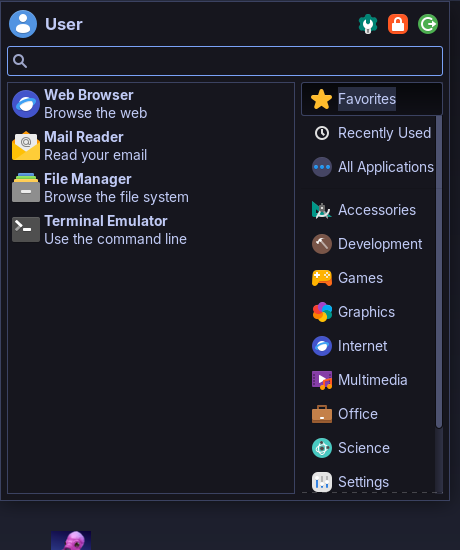
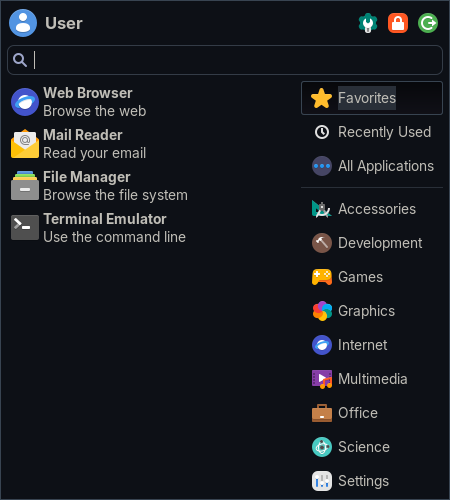
Create xfce4-setting with Ayu Comfort colors and expanded monitor preferences

Changed region(s): [[0.0, 0.0, 1.0, 1.0]]

diff --git a/config/gtk.css b/config/gtk.css
@@ -1,48 +1,52 @@
-/* Local Tokyo Night panel styling */
-.xfce4-panel { background-color: #16161e; color: #c0caf5; border-bottom: 1px solid #292e42; }
+/* Ayu-inspired panel styling */
+.xfce4-panel { background-color: #0d1016; color: #bfbdb6; border-bottom: 1px solid #292f38; }
 .xfce4-panel button { border: 0; border-radius: 7px; margin: 3px 2px; padding: 2px 6px; background-image: none; box-shadow: none; }
-.xfce4-panel button:hover { background-color: #292e42; }
-.xfce4-panel button:checked { background-color: #3b4261; color: #7dcfff; }
-#genmon-20 { padding: 0 10px; margin: 4px 5px; border-radius: 8px; background-color: #24283b; }
-#clock-button { color: #bb9af7; padding: 0 10px; }
-tooltip { background-color: #1a1b26; color: #c0caf5; border: 1px solid #414868; border-radius: 8px; }
+.xfce4-panel button:hover { background-color: #292f38; }
+.xfce4-panel button:checked { background-color: #384451; color: #d9ad72; }
+#genmon-20 { padding: 0 10px; margin: 4px 5px; border-radius: 8px; background-color: #1f242c; }
+#clock-button { color: #c6a77b; padding: 0 10px; }
+tooltip { background-color: #151920; color: #bfbdb6; border: 1px solid #46515e; border-radius: 8px; }
 
 /* Keep inactive windows legible rather than fading all telemetry. */
-.background:backdrop { color: #c0caf5; }
-.background:backdrop label { color: #a9b1d6; }
-.dim-label, .dim-label:backdrop { color: #a9b1d6; opacity: 1; }
-notebook > header tab:checked label { color: #7dcfff; }
+.background:backdrop { color: #bfbdb6; }
+.background:backdrop label { color: #a6a9ab; }
+.dim-label, .dim-label:backdrop { color: #a6a9ab; opacity: 1; }
+notebook > header tab:checked label { color: #d9ad72; }
 
 /* Screenshot review: readable selected categories and usable controls. */
 window:not(.xfce4-panel) button:not(.flat) {
- background-image: none; background-color: #24283b; color: #c0caf5;
- border: 1px solid #3b4261; border-radius: 6px; padding: 4px 10px; min-height: 24px;
+ background-image: none; background-color: #1f242c; color: #bfbdb6;
+ border: 1px solid #384451; border-radius: 6px; padding: 4px 10px; min-height: 24px;
 }
-window:not(.xfce4-panel) button:not(.flat):hover { background-color: #343b58; border-color: #7aa2f7; }
-window:not(.xfce4-panel) button:not(.flat):checked { background-color: #3b4261; color: #c0caf5; }
-window:not(.xfce4-panel) button:not(.flat):disabled { color: #737aa2; }
-#whiskermenu-window button:checked, #whiskermenu-window button:checked label { color: #c0caf5; background-color: #292e42; }
+window:not(.xfce4-panel) button:not(.flat):hover { background-color: #343c47; border-color: #73a9c2; }
+window:not(.xfce4-panel) button:not(.flat):checked { background-color: #384451; color: #bfbdb6; }
+window:not(.xfce4-panel) button:not(.flat):disabled { color: #7c858f; }
+#whiskermenu-window button:checked, #whiskermenu-window button:checked label { color: #bfbdb6; background-color: #292f38; }
 notebook > header tab { padding: 6px 12px; }
-notebook > header tab:checked { border-bottom: 2px solid #7dcfff; }
-infobar.info, infobar.info:backdrop { background-color: #24283b; color: #c0caf5; }
-infobar.info label, infobar.info:backdrop label { color: #c0caf5; }
+notebook > header tab:checked { border-bottom: 2px solid #d9ad72; }
+infobar.info, infobar.info:backdrop { background-color: #1f242c; color: #bfbdb6; }
+infobar.info label, infobar.info:backdrop label { color: #bfbdb6; }
 XfdesktopIconView { -XfdesktopIconView-cell-text-width-proportion: 2.8; -XfdesktopIconView-cell-spacing: 4; -XfdesktopIconView-cell-padding: 6; }
 
-#xfwm-tabwin { background-color: #1a1b26; color: #c0caf5; border: 1px solid #7aa2f7; border-radius: 10px; padding: 10px; }
-#xfwm-tabwin label, #xfwm-tabwin button label { color: #c0caf5; }
-#xfwm-tabwin button:checked, #xfwm-tabwin button:hover { background-color: #343b58; color: #c0caf5; }
+#xfwm-tabwin { background-color: #151920; color: #bfbdb6; border: 1px solid #73a9c2; border-radius: 10px; padding: 10px; }
+#xfwm-tabwin label, #xfwm-tabwin button label { color: #bfbdb6; }
+#xfwm-tabwin button:checked, #xfwm-tabwin button:hover { background-color: #343c47; color: #bfbdb6; }
 
 /* Unified surfaces: boundaries belong to containers, not every child. */
 window:not(.xfce4-panel) notebook { border: none; background-color: transparent; }
 window:not(.xfce4-panel) notebook > header { background: transparent; border: none; box-shadow: none; padding: 0 0 8px; }
 window:not(.xfce4-panel) notebook > header tab { background: transparent; border: none; box-shadow: none; border-radius: 6px; margin: 0 4px 0 0; padding: 7px 14px; }
-window:not(.xfce4-panel) notebook > header tab:checked { background: #292e42; border: none; }
-window:not(.xfce4-panel) notebook > stack { background: #202332; border: none; border-radius: 10px; }
+window:not(.xfce4-panel) notebook > header tab:checked { background: #292f38; border: none; }
+window:not(.xfce4-panel) notebook > stack { background: #191e26; border: none; border-radius: 10px; }
 window:not(.xfce4-panel) scrolledwindow { border: none; box-shadow: none; }
 window:not(.xfce4-panel) scrolledwindow undershoot { background: none; }
-window:not(.xfce4-panel) button:not(.flat) { border-color: transparent; background-image: none; background-color: #292e42; box-shadow: none; border-radius: 7px; }
-window:not(.xfce4-panel) button:not(.flat):hover { border-color: transparent; background-color: #343b58; }
-window:not(.xfce4-panel) entry, window:not(.xfce4-panel) spinbutton { border: 1px solid #343b58; border-radius: 7px; box-shadow: none; background: #16161e; }
+window:not(.xfce4-panel) button:not(.flat) { border-color: transparent; background-image: none; background-color: #292f38; box-shadow: none; border-radius: 7px; }
+window:not(.xfce4-panel) button:not(.flat):hover { border-color: transparent; background-color: #343c47; }
+window:not(.xfce4-panel) entry, window:not(.xfce4-panel) spinbutton { border: 1px solid #343c47; border-radius: 7px; box-shadow: none; background: #0d1016; }
 window:not(.xfce4-panel) spinbutton button { border: none; border-radius: 0; background: transparent; }
-separator { min-width: 1px; min-height: 1px; background-color: #292e42; }
+separator { min-width: 1px; min-height: 1px; background-color: #292f38; }
 .xfce4-panel separator { background: transparent; }
+
+calendar { color: #bfbdb6; }
+calendar:indeterminate { color: #7c858f; }
+calendar:selected { color: #151920; background-color: #d9ad72; }

diff --git a/config/notify.css b/config/notify.css
@@ -1,4 +1,4 @@
-#XfceNotifyWindow { background-color: #24283b; color: #c0caf5; border: 1px solid #7aa2f7; border-radius: 9px; padding: 10px; }
-#XfceNotifyWindow label { color: #c0caf5; }
-#XfceNotifyWindow label#summary { color: #7dcfff; font-weight: bold; }
-#XfceNotifyWindow button { background-image: none; background-color: #343b58; color: #c0caf5; border-radius: 5px; }
+#XfceNotifyWindow { background-color: #1f242c; color: #bfbdb6; border: 1px solid #73a9c2; border-radius: 9px; padding: 10px; }
+#XfceNotifyWindow label { color: #bfbdb6; }
+#XfceNotifyWindow label#summary { color: #d9ad72; font-weight: bold; }
+#XfceNotifyWindow button { background-image: none; background-color: #343c47; color: #bfbdb6; border-radius: 5px; }

diff --git a/install.py b/install.py
@@ -17,7 +17,7 @@ def main():
  power=args.power=='auto' and model.exists() and model.read_text().strip()=='ThinkPad T495s'
  props=json.loads((ROOT/'config/xfconf.json').read_text())
  if args.dry_run:
-  print(json.dumps({'channels':{k:len(v) for k,v in props.items()},'power_profile':'ThinkPad T495s' if power else 'desktop only','backup':'~/.local/state/xfce-tokyo-night/backups/<timestamp>','files':'allowlisted repository payload only'},indent=2));return
+  print(json.dumps({'channels':{k:len(v) for k,v in props.items()},'power_profile':'ThinkPad T495s' if power else 'desktop only','backup':'~/.local/state/xfce4-setting/backups/<timestamp>','files':'allowlisted repository payload only'},indent=2));return
  if os.geteuid()==0: raise SystemExit('Run as your logged-in XFCE user.')
  import gi
  gi.require_version('Xfconf','0')
@@ -32,7 +32,7 @@ def main():
    cmd+=['-t',typ,'-s',str(v).lower() if isinstance(v,bool) else str(v).replace('@HOME@',str(HOME))]
   run(*cmd)
  import datetime
- backup=HOME/'.local/state/xfce-tokyo-night/backups'/datetime.datetime.now().strftime('%Y%m%d-%H%M%S-%f')
+ backup=HOME/'.local/state/xfce4-setting/backups'/datetime.datetime.now().strftime('%Y%m%d-%H%M%S-%f')
  backup.mkdir(parents=True,mode=0o700)
  shutil.copy2(ROOT/'restore.py',backup/'restore.py')
  before={}
@@ -61,7 +61,7 @@ def main():
   with tarfile.open(archive) as tar:tar.extractall(stage,filter='data')
   theme=next(stage.glob('tokyonight-xfce-*/TokyoNight'))
   for f in theme.rglob('*'):
-   if f.is_file():put(f,HOME/'.local/share/themes/TokyoNight'/f.relative_to(theme))
+   if f.is_file():put(f,HOME/'.local/share/themes/AyuComfort'/f.relative_to(theme))
   for family,font in [('inter','Inter[opsz,wght].ttf'),('jetbrainsmono','JetBrainsMono[wght].ttf')]:
    for name in [font,'OFL.txt']:
     dest=HOME/'.local/share/fonts/desktop'/(family+'-OFL.txt' if name=='OFL.txt' else name)
@@ -69,21 +69,26 @@ def main():
  for name in ['system-power-widget','eye-break-reminder']:put(ROOT/'bin'/name,HOME/'.local/bin'/name,True)
  put(ROOT/'config/gtk.css',HOME/'.config/gtk-3.0/gtk.css')
  put(ROOT/'config/fonts.conf',HOME/'.config/fontconfig/conf.d/60-local-fonts.conf')
- put(ROOT/'config/wallpaper.svg',HOME/'.local/share/backgrounds/tokyo-night-horizon.svg')
- put(ROOT/'config/widget.json',HOME/'.config/system-power-widget/settings.json')
+ put(ROOT/'config/wallpaper.svg',HOME/'.local/share/backgrounds/ayu-comfort-horizon.svg')
+ widget=HOME/'.config/system-power-widget/settings.json'
+ defaults=json.loads((ROOT/'config/widget.json').read_text())
+ if widget.exists():
+  try:
+   existing=json.loads(widget.read_text())
+   if isinstance(existing,dict): defaults.update(existing)
+  except (ValueError,OSError): pass
+ if defaults.get('accent')=='#7dcfff': defaults['accent']='#bfbdb6'
+ text(widget,json.dumps(defaults,indent=2))
+ props['xfce4-panel']['/plugins/plugin-20/update-period']=max(2,min(30,int(defaults.get('panel_interval',5))))*1000
  for name,cmd,category in [('system-power-widget','system-power-widget --window','System;Monitor;'),('eye-break-reminder','eye-break-reminder','Utility;')]:
   dest=HOME/('.config/autostart' if name=='eye-break-reminder' else '.local/share/applications')/(name+'.desktop')
   text(dest,f'[Desktop Entry]\nType=Application\nName={"System & Power" if name=="system-power-widget" else "Eye break reminder"}\nExec="{HOME}/.local/bin/{name}"'+(' --window' if name=='system-power-widget' else '')+f'\nIcon=utilities-system-monitor\nTerminal=false\nOnlyShowIn=XFCE;\nCategories={category}\n')
- # Theme fixes discovered during real screenshot reviews.
- css=HOME/'.local/share/themes/TokyoNight/gtk-3.0/gtk.css'
- colors={'theme_bg_color':'#1a1b26','theme_fg_color':'#c0caf5','theme_base_color':'#16161e','theme_text_color':'#c0caf5','theme_selected_bg_color':'#3b4261','theme_selected_fg_color':'#c0caf5','theme_unfocused_fg_color':'#a9b1d6','theme_unfocused_bg_color':'#1a1b26','theme_unfocused_base_color':'#16161e','theme_unfocused_text_color':'#a9b1d6','insensitive_fg_color':'#737aa2','insensitive_bg_color':'#24283b','borders':'#3b4261'}
- text(css,'\n'.join(f'@define-color {k} {v};' for k,v in colors.items())+'\n'+css.read_text()+'\n'+(ROOT/'config/gtk.css').read_text())
- wm=HOME/'.local/share/themes/TokyoNight/xfwm4/themerc';text(wm,wm.read_text().replace('inactive_text_color=#565f89','inactive_text_color=#a9b1d6'))
- put(ROOT/'config/notify.css',HOME/'.local/share/themes/TokyoNight/xfce-notify-4.0/gtk.css')
- # Predictable private permissions for future files, without exporting shell history/config.
- for name in ['.profile','.zshenv','.bashrc']:
-  dest=HOME/name;value=dest.read_text() if dest.exists() else ''
-  if '# xfce-tokyo-night permissions' not in value:text(dest,value+'\n# xfce-tokyo-night permissions\numask 077\n')
+ # Derive the GTK2/GTK3/XFWM theme from the pinned upstream assets.
+ from theme import recolor_theme
+ recolor_theme(HOME/'.local/share/themes/AyuComfort')
+ css=HOME/'.local/share/themes/AyuComfort/gtk-3.0/gtk.css'
+ text(css,css.read_text()+'\n'+(ROOT/'config/gtk.css').read_text())
+ put(ROOT/'config/notify.css',HOME/'.local/share/themes/AyuComfort/xfce-notify-4.0/gtk.css')
  # Discover the new machine's monitors instead of copying the original monitor names.
  desk=Xfconf.Channel.get('xfce4-desktop').get_properties('/')
  prefixes={k.rsplit('/workspace',1)[0] for k in desk if k.startswith('/backdrop/') and '/workspace' in k}
@@ -94,7 +99,7 @@ def main():
   prefixes={f'/backdrop/screen0/monitor{screen.get_monitor_plug_name(i)}' for i in range(screen.get_n_monitors())}
  for prefix in prefixes:
   for i in range(4):
-   for key,val in [('last-image',str(HOME/'.local/share/backgrounds/tokyo-night-horizon.svg')),('image-style',5)]:
+   for key,val in [('last-image',str(HOME/'.local/share/backgrounds/ayu-comfort-horizon.svg')),('image-style',5)]:
     path=prefix+f'/workspace{i}/'+key
     props['xfce4-desktop'][path]=val
  props['xfce4-desktop']['/backdrop/single-workspace-mode']=True
@@ -115,5 +120,5 @@ def main():
  if power:run('sudo','python3',str(ROOT/'system/apply-power.py'))
  shutil.copy2(ROOT/'restore.py',backup/'restore.py')
  print(f'Installed. Desktop rollback: python3 "{backup}/restore.py"')
- print('Log out and back in to apply the private umask and start the session reminder.')
+ print('Log out and back in to start the session reminder.')
 if __name__=='__main__':main()

diff --git a/theme.py b/theme.py
@@ -1,0 +1,18 @@
+"""Recolor the pinned TokyoNight base into the Ayu Comfort desktop variant."""
+import re
+PALETTE = {'16161e': '0d1016', '1a1b26': '151920', '24283b': '1f242c', '202332': '191e26', '292e42': '292f38', '343b58': '343c47', '3b4261': '384451', '414868': '46515e', '565f89': '6b747e', '737aa2': '7c858f', 'a9b1d6': 'a6a9ab', 'c0caf5': 'bfbdb6', '7aa2f7': '73a9c2', '7dcfff': 'd9ad72', 'bb9af7': 'c6a77b', 'f7768e': 'df8585', '9ece6a': 'a8bb85', 'e0af68': 'd9ad72', '1b1e2b': '151920'}
+PALETTE.update({'6d738e':'7c858f','383e5b':'303944','181923':'13171e','0e52e4':'638fa6','eeeeee':'bfbdb6','393b53':'323b46','12121a':'10141a','181821':'151920','0e0e14':'0d1016','9ea6cb':'a6a9ab','4a80f4':'73a9c2','161720':'13171e','e00d34':'c97878','1c1d29':'191e26','709bf6':'73a9c2'})
+def recolor_theme(root):
+ for path in root.rglob('*'):
+  if not path.is_file() or path.suffix not in ('.css','.scss','.svg','.xpm','.theme','') and path.name not in ('gtkrc','themerc'): continue
+  try: text=path.read_text()
+  except UnicodeDecodeError: continue
+  text=re.sub(r'#([0-9a-fA-F]{6})(?![0-9a-fA-F])',lambda m:'#'+PALETTE.get(m[1].lower(),m[1]),text)
+  def rgba(m):
+   old=''.join(f'{int(v):02x}' for v in m.group(2,3,4))
+   new=PALETTE.get(old,old)
+   return m[1]+'('+', '.join(str(int(new[i:i+2],16)) for i in (0,2,4))+m[5]+')'
+  text=re.sub(r'(rgba?)\(\s*(\d+),\s*(\d+),\s*(\d+)([^)]*)\)',rgba,text)
+  # The upstream name remains only in licensing/source references.
+  if path.name=='index.theme': text=text.replace('TokyoNight','AyuComfort')
+  path.write_text(text)

diff --git a/README.md b/README.md
@@ -1,82 +1,21 @@
-# Tokyo Night XFCE
+# xfce4-setting
 
-A reproducible personal Void Linux/XFCE desktop for **bpseditor**. English throughout, with Japanese, Chinese, Cyrillic and emoji font coverage.
+## Что меняет
 
-![Dashboard](screenshots/dashboard.png)
+Настраивает XFCE4 в спокойных цветах на основе Ayu Dark из Zed: GTK, заголовки окон, панель, уведомления, терминал и обои. Устанавливает Inter, JetBrains Mono и Papirus Dark; задаёт четыре рабочих стола и горячие клавиши.
 
-## One-command deployment
+Добавляет System & Power: питание, CPU, память, температуры, диск и сеть. В настройках доступны состав и порядок показателей, интервалы обновления, единицы, интерфейс сети, цвета, пороги предупреждений, компактный режим, яркость, режим презентации и проверка соединения. Напоминание о перерывах запускается с сессией.
 
-Run in a terminal **inside a logged-in XFCE session**, as your regular user:
+На ThinkPad T495s также применяется профиль питания и ограничения заряда. `--power skip` пропускает системный профиль.
 
-```sh
-curl -fsSL https://raw.githubusercontent.com/bpseditor/xfce-tokyo-night/main/bootstrap.sh | sh
-```
+## Как установить
 
-Requires Void Linux, a working graphical XFCE session, internet access, `curl`, and permission to use `sudo`. The installer installs dependencies through XBPS. It does not install the OS, configure the display manager, or create a user. Log out and back in after installation.
-
-The default automatically includes the power profile **only on ThinkPad T495s**. On other computers it installs the desktop profile. To skip hardware power settings:
+В терминале текущей сессии XFCE на Void Linux:
 
 ```sh
-curl -fsSL https://raw.githubusercontent.com/bpseditor/xfce-tokyo-night/main/bootstrap.sh | sh -s -- --power skip
-```
-
-For inspection before execution:
-
-```sh
-git clone https://github.com/bpseditor/xfce-tokyo-night.git
-cd xfce-tokyo-night
-./install.sh --dry-run
+git clone https://github.com/bpseditor/xfce4-setting.git
+cd xfce4-setting
 ./install.sh
 ```
 
-The bootstrap tracks `main`; for a frozen installation, check out a specific Git commit and run its installer. Upstream theme and font assets are pinned to commits in `install.py`.
-
-## Included personal settings
-
-- Tokyo Night GTK and XFWM theme, Papirus Dark icons, static mountain wallpaper.
-- Inter UI font and JetBrains Mono terminal font; Noto CJK and emoji fallback.
-- One 36px panel: application menu, four workspaces, application buttons, unified telemetry, tray, audio, keyboard layout, notifications, date and time.
-- English **System & Power** dashboard: battery flow, watts, runtime estimate, charge thresholds, CPU, temperatures, fan, memory, swap, disk and network rates.
-- Dashboard preferences for each panel metric, window refresh interval, network interface, network units, memory format, disk path, averaging, separator, accent colour, tooltip, brightness and presentation mode. Panel updates every five seconds.
-- Manual ICMP connectivity test bound to the selected interface, with a configurable IP/hostname. No periodic probes. A missing ICMP reply does not prove internet failure. `auto` telemetry uses the IPv4 default-route interface where available; explicit interface selection is recommended for VPN/policy-routing setups.
-- English eye-break reminder every 20 minutes, started after XFCE login, with duplicate-instance protection.
-- Four workspaces; `Ctrl+1…4` switches and `Alt+1…4` moves a window. Workspace add/delete bindings (`Alt+Insert`, `Alt+Delete`) are disabled.
-- Personal window bindings, including `Alt+Left/Right` tiling and `Alt+AudioMicMute` closing a window. These replace the corresponding XFCE bindings; review `config/xfconf.json` if sharing this profile.
-- Private `umask 077` in supported shell startup files; screen lock on suspend and after idle; battery dimming and DPMS timers.
-
-Existing panel composition is replaced. User files and affected XFCE properties are backed up under `~/.local/state/xfce-tokyo-night/backups/`. Re-running the installer reapplies the profile and creates another backup. Files managed by this repository are replaced; unrelated application settings are left alone.
-
-## ThinkPad T495s power profile
-
-- Charge up to 80%. After reaching the cap, use AC power without forced discharge; ordinary restart threshold is 40%.
-- Reconnect AC to top up again, including from 70%; the temporary start threshold is 79%. Boot/resume on AC also permits a top-up.
-- On battery: CPU cap 1.7 GHz, boost off, GPU `low`, AMD adaptive backlight level 2. On AC: CPU cap 2.1 GHz, boost allowed, GPU `auto`.
-- TLP plus a small runit `charge-guard` service. Charge limits remain subject to the embedded controller and rounding.
-
-The 80% cap reduces stored energy compared with a full charge. CPU limits can slow heavy work. Adaptive backlight can affect image appearance. Battery watts on AC measure charging flow, **not total wall consumption**. Runtime and capacity are controller estimates. No artificial 80→40 cycling is enabled.
-
-## Recovery
-
-The installer prints a command such as:
-
-```sh
-python3 ~/.local/state/xfce-tokyo-night/backups/TIMESTAMP/restore.py
-```
-
-Run it from your XFCE session. Desktop restore recovers managed files and properties; installed packages are retained. The power installer separately prints a root-owned recovery script under `/var/backups/xfce-tokyo-night-*/restore.sh`; run that with `sudo` to recover the previous TLP/guard setup.
-
-## Privacy and scope
-
-This repository was assembled from an explicit file/property allowlist, not a home-directory export. It contains no SSH/GPG keys, WireGuard/VPN configuration, passwords, browser profiles, shell history, auth tokens, application databases or private service configuration. Screenshots show controlled demo content and nonsensitive telemetry.
-
-Network configuration, traffic-masq, mindmap and cvss-notification deployments are intentionally outside this desktop profile. Destructive package/service cleanup, full-disk encryption, Secure Boot and full system upgrades are not automated here. The installer does not remove Samba/Tor or disable networking services on a newly installed system.
-
-## Screenshots and fixes
-
-[Terminal](screenshots/terminal.png) · [Menu](screenshots/menu.png) · [Notification](screenshots/notification.png)
-
-The desktop was reviewed using real screenshots of eight scenarios. Fixes include readable selected menu categories, correctly configured XFCE Terminal 1.2 through xfconf, contrast in Alt+Tab, clear inactive titles, useful desktop label widths, notification styling and a compact dashboard. The installer has syntax, manifest, dry-run and download checks; it has **not** been tested through a complete fresh-OS installation.
-
-## Third-party assets
-
-The installer downloads [TokyoNight XFCE](https://github.com/Bukutsu/tokyonight-xfce) at a pinned commit and applies local CSS corrections. It downloads [Inter](https://github.com/google/fonts/tree/main/ofl/inter) and [JetBrains Mono](https://github.com/google/fonts/tree/main/ofl/jetbrainsmono) with their OFL license files at a pinned Google Fonts commit. Papirus and Noto are installed from Void packages. Upstream assets retain their own licenses; this repository does not relicense them.
+Установщик запрашивает sudo для пакетов и системного профиля. Существующие настройки виджета сохраняются. Для отката запустите `restore.py` из резервной копии в `~/.local/state/xfce4-setting/backups/`; путь выводится после установки.
